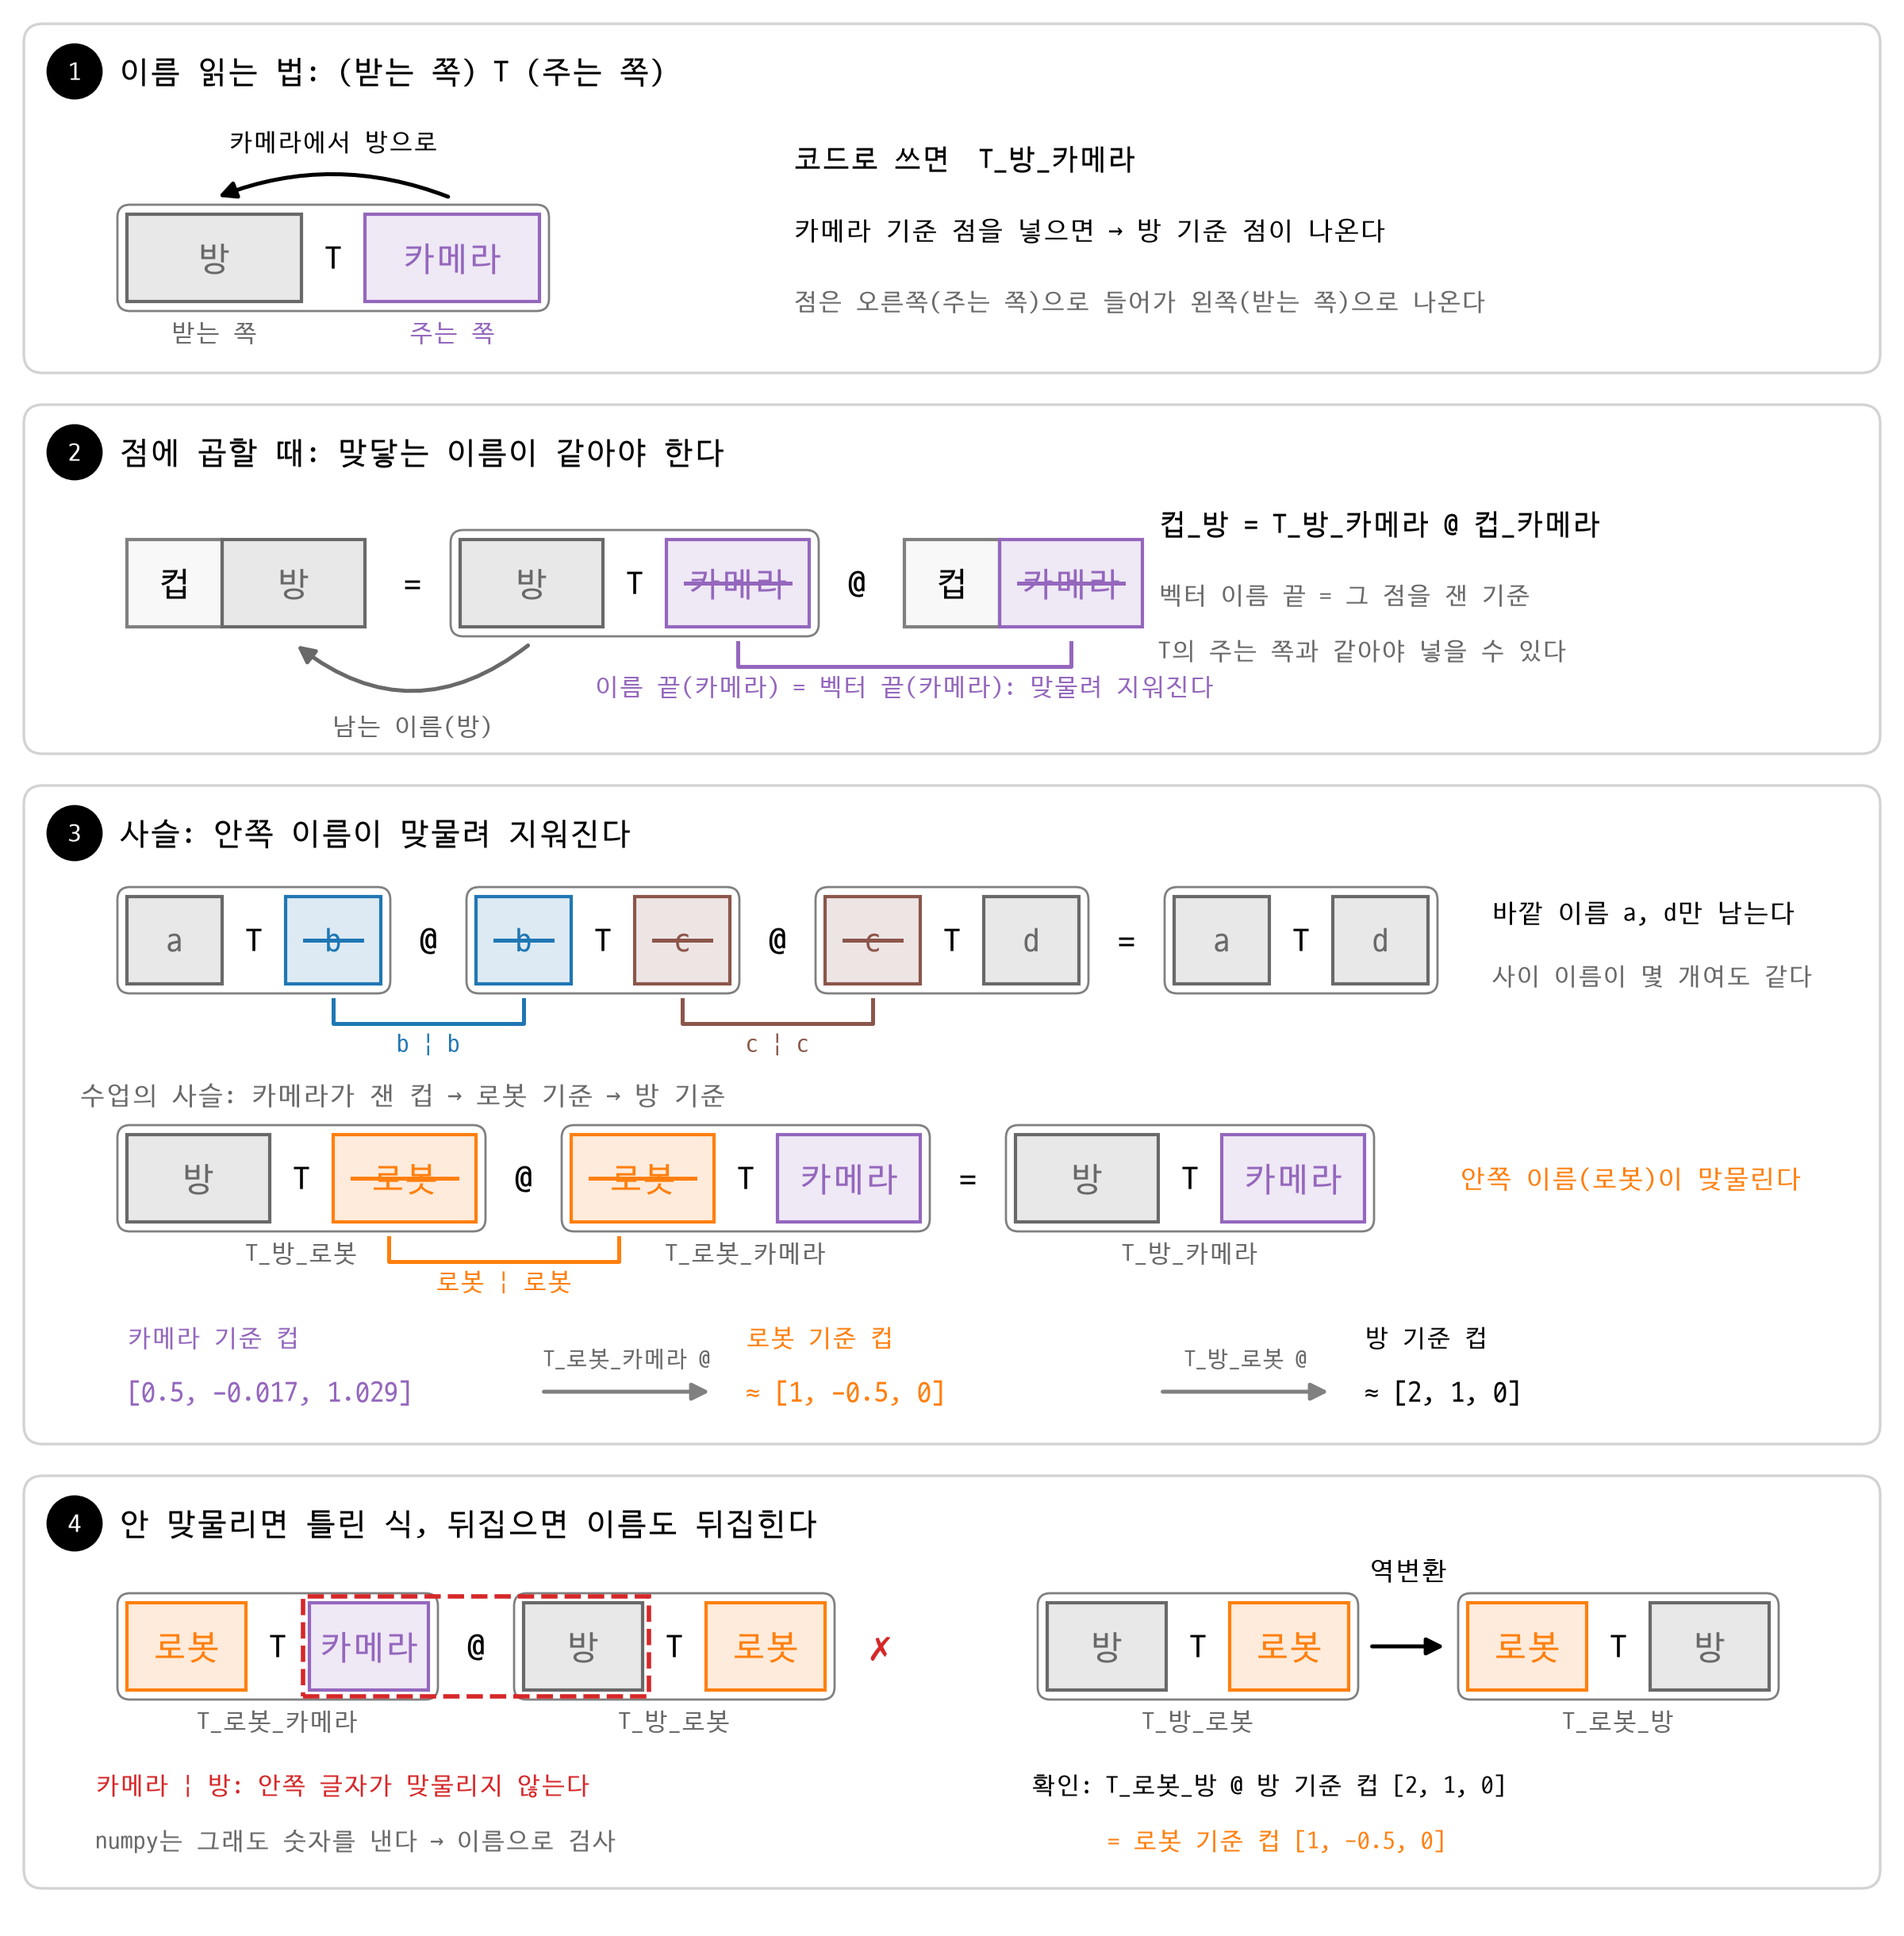
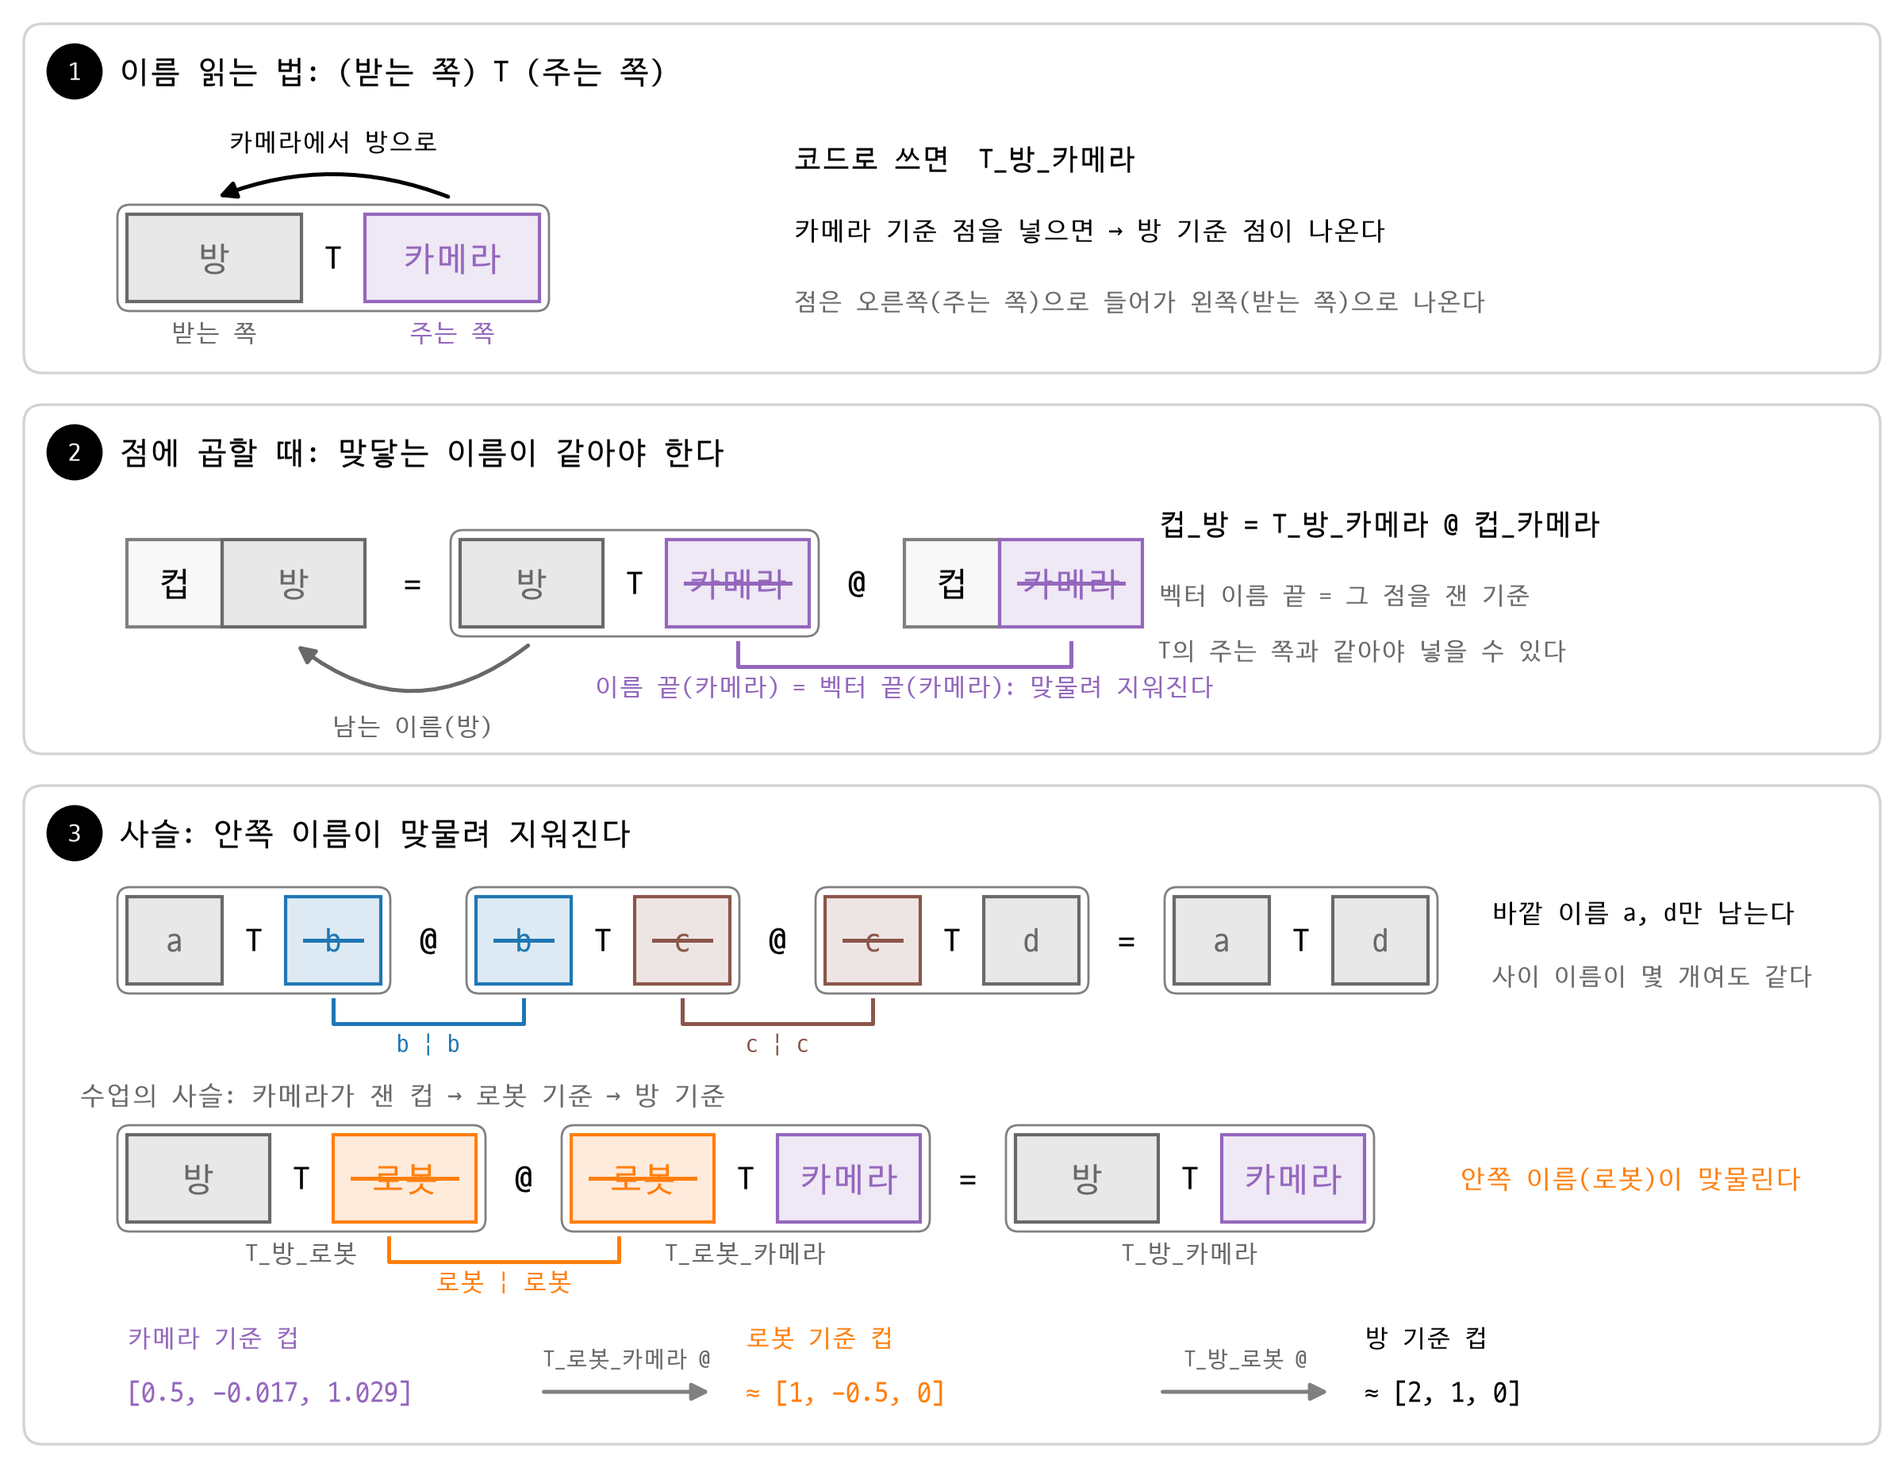
Split chain naming figure and add the reverse-direction chain
s46_chain_names now holds steps 1-3 only (reading "to T from",
multiplying a point, the chain rule), so it fits a slide better.
New s46_chain_names_back.py holds step 4 (a product whose names do
not mesh) and step 5, the chain going the other way: the general
rule e T a = e T d @ d T c @ c T b @ b T a and its inverse
a T e = a T b @ b T c @ c T d @ d T e (each tile flipped, order
reversed), the lesson's 방 T 카메라 and 카메라 T 방, and the paired
point equations with the cup's numbers in both directions. The
inverse-of-a-chain rule is also checked numerically.

Changed region(s): [[0.0, 0.0, 1.0, 0.9859], [0.7812, 0.5854, 0.9375, 0.6778], [0.6562, 0.0924, 0.7188, 0.1232]]

diff --git a/src/robo/vol3/02-frames-rotations/s46_chain_names_back.py b/src/robo/vol3/02-frames-rotations/s46_chain_names_back.py
@@ -1,0 +1,201 @@
+import matplotlib.pyplot as plt
+import numpy as np
+from matplotlib.colors import to_rgba
+from matplotlib.patches import Circle, FancyArrowPatch, FancyBboxPatch, Rectangle
+
+# plt.rcParams["font.family"] = "AppleGothic"
+plt.rcParams["font.family"] = "D2Coding"
+plt.rcParams["axes.unicode_minus"] = False
+
+
+def Ry(각도_도: float) -> np.ndarray:
+    c, s = np.cos(np.deg2rad(각도_도)), np.sin(np.deg2rad(각도_도))
+    return np.array([[c, 0, s], [0, 1, 0], [-s, 0, c]])
+
+
+def Rz(각도_도: float) -> np.ndarray:
+    c, s = np.cos(np.deg2rad(각도_도)), np.sin(np.deg2rad(각도_도))
+    return np.array([[c, -s, 0], [s, c, 0], [0, 0, 1]])
+
+
+def 변환(R: np.ndarray, p) -> np.ndarray:
+    T = np.eye(4)
+    T[:3, :3] = R
+    T[:3, 3] = p
+    return T
+
+
+def 역변환(T: np.ndarray) -> np.ndarray:
+    R, p = T[:3, :3], T[:3, 3]
+    return 변환(R.T, -R.T @ p)
+
+
+def 깔끔(a, 자리=3):
+    return np.round(a, 자리) + 0.0
+
+
+def 글(v, 자리=3):
+    return "[" + ", ".join(f"{x:g}" for x in 깔끔(v, 자리)) + "]"
+
+
+# 슬라이드 46의 값 (b19_chain.py, b18_homogeneous.py)
+R_몸_카메라 = np.array([[0, 0, 1], [-1, 0, 0], [0, -1, 0]])
+T_방_로봇 = 변환(Rz(90), [1.5, 0.0, 0.0])
+T_로봇_카메라 = 변환(Ry(30) @ R_몸_카메라, [0.1, 0.0, 0.5])
+T_방_카메라 = T_방_로봇 @ T_로봇_카메라
+T_카메라_방 = 역변환(T_로봇_카메라) @ 역변환(T_방_로봇)    # 거꾸로: 타일도 뒤집고 순서도 뒤집는다
+컵_카메라 = np.array([0.5, -0.017, 1.029, 1.0])
+컵_방 = np.array([2.0, 1.0, 0.0, 1.0])                       # 슬라이드의 방 기준 컵
+같다 = np.allclose(T_카메라_방, 역변환(T_방_카메라))
+print("T_카메라_방 = 역변환(T_로봇_카메라) @ 역변환(T_방_로봇) =\n", 깔끔(T_카메라_방))
+print("역변환(T_방_카메라)와 같은가?", 같다)
+print("T_방_카메라 @ 컵_카메라 =", 깔끔((T_방_카메라 @ 컵_카메라)[:3]))
+print("T_카메라_방 @ 컵_방    =", 깔끔((T_카메라_방 @ 컵_방)[:3]), " (카메라가 잰 컵", 컵_카메라[:3], ")")
+
+# 일반 규칙 검산: 아무 변환 넷 (T1 = e T d, T2 = d T c, T3 = c T b, T4 = b T a)
+T1 = 변환(Rz(30), [1.0, 0.0, 0.0])
+T2 = 변환(Ry(45), [0.0, 0.5, 0.2])
+T3 = 변환(Rz(-60) @ Ry(20), [0.3, -0.2, 0.0])
+T4 = 변환(Ry(-15), [0.0, 0.0, 0.7])
+일반 = np.allclose(역변환(T1 @ T2 @ T3 @ T4), 역변환(T4) @ 역변환(T3) @ 역변환(T2) @ 역변환(T1))
+print("역변환(T1@T2@T3@T4) == 역변환(T4)@역변환(T3)@역변환(T2)@역변환(T1) ?", 일반)
+print("순서를 안 뒤집으면?", np.allclose(역변환(T1 @ T2 @ T3 @ T4),
+                                     역변환(T1) @ 역변환(T2) @ 역변환(T3) @ 역변환(T4)))
+
+주황, 보라, 빨강 = "tab:orange", "tab:purple", "tab:red"
+색 = {"방": "dimgray", "로봇": 주황, "카메라": 보라, "a": "dimgray", "e": "dimgray",
+     "b": "tab:olive", "c": "tab:brown", "d": "tab:blue"}
+그림 = plt.figure(figsize=(12, 11.7))
+판 = 그림.add_axes([0, 0, 1, 1])              # 판서 칠판: 단위 = 인치
+판.set(xlim=(0, 12), ylim=(0, 11.7))
+판.axis("off")
+H = 0.55                                      # 칸 높이
+
+
+def 단계(y0, h, 번호, 제목):
+    판.add_patch(FancyBboxPatch((0.15, y0), 11.7, h, boxstyle="round,pad=0,rounding_size=0.12",
+                                facecolor="none", edgecolor="lightgray", linewidth=1.2))
+    판.add_patch(Circle((0.47, y0 + h - 0.3), 0.17, color="black"))
+    판.text(0.47, y0 + h - 0.3, 번호, color="white", ha="center", va="center", fontsize=12)
+    판.text(0.75, y0 + h - 0.3, 제목, va="center", fontsize=14)
+
+
+def 칸(x, y, 이름, w, 지움=False):
+    """이름 하나 = 색칸 하나. 지움이면 가로줄로 지운다."""
+    c = 색.get(이름, "black")
+    판.add_patch(Rectangle((x, y), w, H, facecolor=to_rgba(c if 이름 in 색 else "lightgray", 0.15),
+                           edgecolor=c if 이름 in 색 else "gray", linewidth=1.5))
+    판.text(x + w / 2, y + H / 2, 이름, color=c, ha="center", va="center", fontsize=15)
+    if 지움:
+        판.plot([x + 0.12, x + w - 0.12], [y + H / 2, y + H / 2], color=c, lw=1.8)
+    return x + w
+
+
+def 변환칸(x, y, 왼, 오, w=0.9, 지움=(False, False), 코드=None):
+    """'받는 쪽 T 주는 쪽' 타일. 끝 x를 돌려준다."""
+    판.add_patch(FancyBboxPatch((x - 0.06, y - 0.06), 2 * w + 0.52, H + 0.12,
+                                boxstyle="round,pad=0,rounding_size=0.08", facecolor="none",
+                                edgecolor="gray", linewidth=1))
+    x1 = 칸(x, y, 왼, w, 지움[0])
+    판.text(x1 + 0.2, y + H / 2, "T", ha="center", va="center", fontsize=15)
+    끝 = 칸(x1 + 0.4, y, 오, w, 지움[1])
+    if 코드:
+        판.text((x + 끝) / 2, y - 0.12, 코드, ha="center", va="top", fontsize=11, color="dimgray")
+    return 끝
+
+
+def 기호(x, y, s):
+    판.text(x, y + H / 2, s, ha="center", va="center", fontsize=16)
+
+
+def 화살(시작, 끝, c, 굽음=0.0, 양쪽=False):
+    판.add_patch(FancyArrowPatch(시작, 끝, connectionstyle=f"arc3,rad={굽음}",
+                                 arrowstyle="<|-|>" if 양쪽 else "-|>", mutation_scale=16, color=c,
+                                 linewidth=1.8))
+
+
+def 맞물림(x0, x1, y, c, 말):
+    """맞붙은 같은 이름 둘을 아래에서 묶는다."""
+    판.plot([x0, x0, x1, x1], [y, y - 0.15, y - 0.15, y], color=c, lw=1.8)
+    판.text((x0 + x1) / 2, y - 0.2, 말, ha="center", va="top", fontsize=11, color=c)
+
+
+# ④ 안 맞물리면 틀린 식 (그대로 옮김)
+단계(9.55, 1.95, "4", "안 맞물리면 틀린 식")
+y = 10.1
+w = 0.75
+x1 = 변환칸(0.8, y, "로봇", "카메라", w=w, 코드="T_로봇_카메라")
+기호(x1 + 0.3, y, "@")
+x2 = 변환칸(x1 + 0.6, y, "방", "로봇", w=w, 코드="T_방_로봇")
+판.add_patch(Rectangle((x1 - w - 0.04, y - 0.04), 2 * w + 0.68, H + 0.08, facecolor="none",
+                       edgecolor=빨강, linewidth=2, linestyle="--"))
+판.text(x2 + 0.35, y + H / 2, "✗", fontsize=22, color=빨강, va="center", ha="center")
+판.text(6.6, y + 0.45, "카메라 | 방: 안쪽 글자가 맞물리지 않는다", fontsize=12, color=빨강, va="center")
+판.text(6.6, y + 0.05, "numpy는 그래도 숫자를 낸다 → 이름으로 검사", fontsize=11, color="dimgray",
+       va="center")
+
+# ⑤ 거꾸로 가는 사슬
+단계(0.25, 9.1, "5", "거꾸로 가는 사슬: 방에서 카메라로")
+
+
+def 사슬줄(y, 결과, 고리들, w, 글자=None):
+    """결과 = 고리1 @ 고리2 @ ... 를 한 줄로. 안쪽 이름은 지운다. 고리마다 가운데 x를 돌려준다."""
+    끝 = 변환칸(0.8, y, *결과, w=w, 코드=None if 글자 is None else f"T_{결과[0]}_{결과[1]}")
+    기호(끝 + 0.3, y, "=")
+    x, 가운데 = 끝 + 0.6, []
+    for k, (왼, 오) in enumerate(고리들):
+        지움 = (k > 0, k < len(고리들) - 1)
+        끝 = 변환칸(x, y, 왼, 오, w=w, 지움=지움, 코드=None if 글자 is None else f"T_{왼}_{오}")
+        가운데.append((x + 끝) / 2)
+        if k < len(고리들) - 1:
+            기호(끝 + 0.3, y, "@")
+        x = 끝 + 0.6
+    return 가운데, x
+
+
+# (가) 일반 규칙: 고리 넷, 결과는 왼쪽
+앞 = [("e", "d"), ("d", "c"), ("c", "b"), ("b", "a")]
+뒤 = [(오, 왼) for 왼, 오 in reversed(앞)]            # 하나하나 뒤집고, 순서도 거꾸로
+y1, y2 = 7.8, 6.9
+가운데, x끝 = 사슬줄(y1, ("e", "a"), 앞, 0.5)
+for x, 표 in zip(가운데, "가나다라"):
+    판.text(x, y1 + H + 0.25, 표, ha="center", va="center", fontsize=11, color="dimgray")
+가운데, _ = 사슬줄(y2, ("a", "e"), 뒤, 0.5)
+for x, 표 in zip(가운데, "라다나가"):
+    판.text(x, y2 - 0.27, f"{표} 뒤집음", ha="center", va="center", fontsize=10, color="dimgray")
+판.text(x끝 - 0.15, y1 + H / 2, "a에서 e로", fontsize=11, va="center")
+판.text(x끝 - 0.15, y2 + H / 2, "e에서 a로", fontsize=11, va="center")
+판.text(0.6, 6.2, "역행렬: 타일 하나하나를 뒤집고, 순서도 거꾸로 → 안쪽 d | d, c | c, b | b가 다시 맞물린다",
+       fontsize=11, va="center", color="dimgray")
+
+# (나) 수업의 사슬로
+판.text(0.6, 5.7, "수업의 사슬로: e, a 자리에 방, 카메라", fontsize=12, va="center", color="dimgray")
+사슬줄(4.85, ("방", "카메라"), [("방", "로봇"), ("로봇", "카메라")], 0.9, 글자=True)
+사슬줄(3.8, ("카메라", "방"), [("카메라", "로봇"), ("로봇", "방")], 0.9, 글자=True)
+판.text(9.0, 4.85 + H / 2, "카메라에서 방으로", fontsize=12, va="center")
+판.text(9.0, 3.8 + H / 2, "방에서 카메라로", fontsize=12, va="center")
+
+# (다) 점 식 두 줄: 서로 거꾸로
+줄들 = [(2.6, "방", "카메라", "카메라에서 방으로", 컵_카메라, T_방_카메라 @ 컵_카메라, 보라),
+        (1.45, "카메라", "방", "방에서 카메라로", 컵_방, T_카메라_방 @ 컵_방, "dimgray")]
+for y, 받는, 주는, 말, 넣은, 나온, c in 줄들:
+    x = 칸(0.8, y, "x", 0.5)
+    x = 칸(x, y, 받는, 0.9)
+    기호(x + 0.3, y, "=")
+    T끝 = 변환칸(x + 0.6, y, 받는, 주는, 지움=(False, True))
+    기호(T끝 + 0.3, y, "@")
+    x = 칸(T끝 + 0.6, y, "x", 0.5)
+    벡터끝 = 칸(x, y, 주는, 0.9, 지움=True)
+    맞물림(T끝 - 0.45, 벡터끝 - 0.45, y - 0.1, c, f"{주는} | {주는}")
+    판.text(7.8, y + 0.48, f"{말}   T_{받는}_{주는}", fontsize=12, va="center")
+    판.text(7.8, y + 0.08, f"컵: {글(넣은[:3])} → {글(나온[:3])}", fontsize=12, va="center",
+           color="dimgray")
+화살((0.5, 2.6 + H / 2), (0.5, 1.45 + H / 2), "gray", 양쪽=True)
+판.text(7.8, 2.3, "↕ 두 식은 서로 거꾸로", fontsize=11, va="center", color="gray")
+판.text(0.6, 0.75, f"검산: 역변환(T_로봇_카메라) @ 역변환(T_방_로봇) = 역변환(T_방_카메라)  → {같다}",
+       fontsize=11, va="center", color="dimgray")
+판.text(0.6, 0.45, f"아무 변환 넷: 역변환(T1@T2@T3@T4) = 역변환(T4)@역변환(T3)@역변환(T2)@역변환(T1)  → {일반}",
+       fontsize=11, va="center", color="dimgray")
+
+그림.savefig("s46_chain_names_back.png", dpi=200)
+print("저장: s46_chain_names_back.png")
